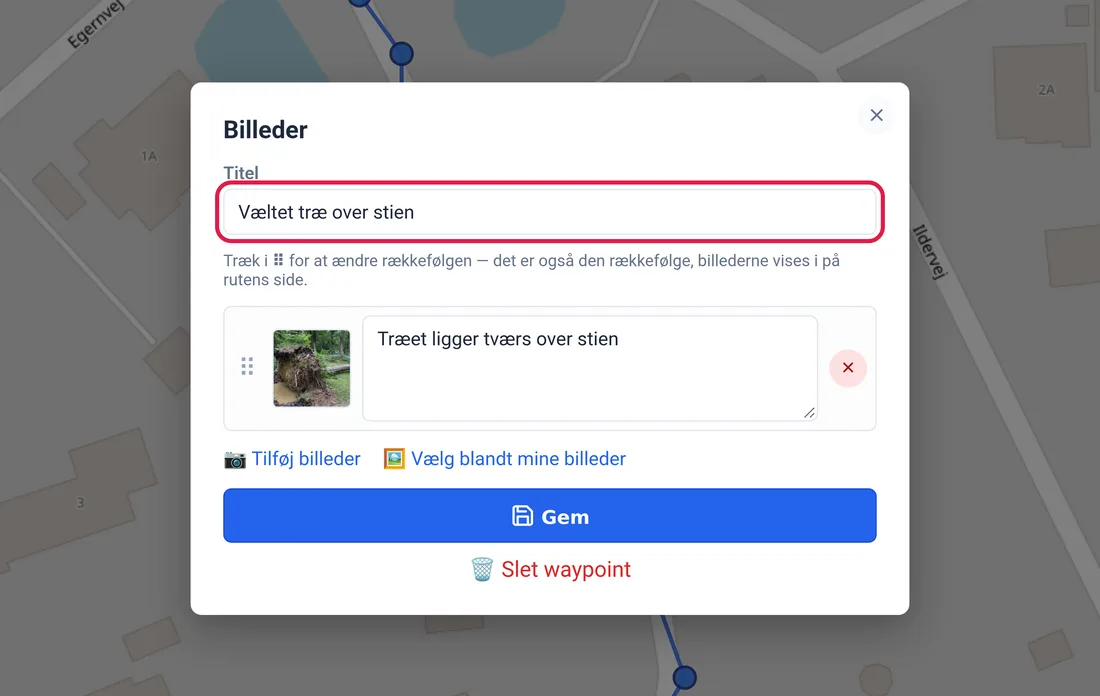
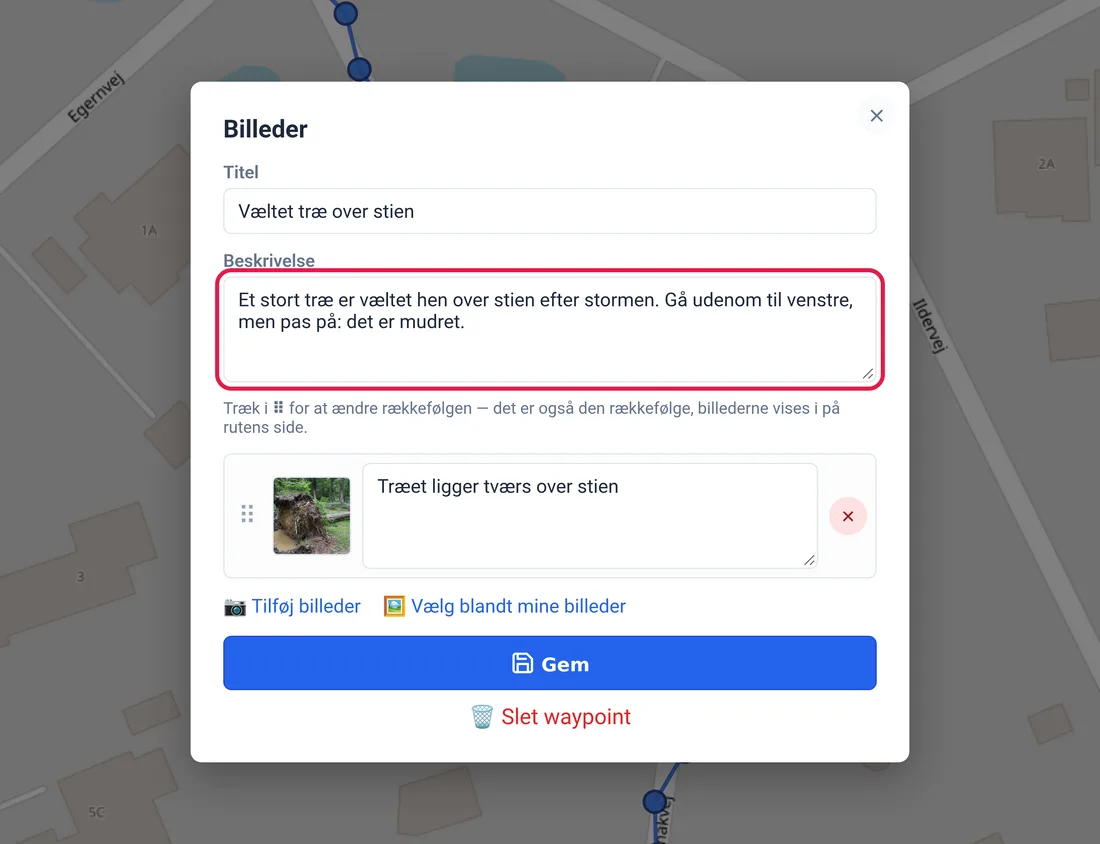
Vejledning: beskrivelsen kan rettes i editoren, og billeder får ændringstid som ?v=

diff --git a/app/vejledning.php b/app/vejledning.php
@@ -210,10 +210,12 @@ function vj_overskrift(string $slug): string
 function vj_billede(string $fil, string $alt, string $tekst = '', string $type = 'mobil'): string
 {
     // Bredde og højde reserverer pladsen, før billedet er hentet (loading="lazy").
-    $maal = @getimagesize(__DIR__ . '/../public/vejledning/billeder/' . $fil);
+    // ?v= er filens ændringstid, så et nyt skærmbillede altid hentes.
+    $sti = __DIR__ . '/../public/vejledning/billeder/' . $fil;
+    $maal = @getimagesize($sti);
     $str = $maal ? ' width="' . (int) $maal[0] . '" height="' . (int) $maal[1] . '"' : '';
     $html = '<figure class="vj-billede vj-billede--' . vj_h($type) . '">'
-        . '<img src="/vejledning/billeder/' . vj_h($fil) . '?v=1" alt="' . vj_h($alt) . '"' . $str . ' loading="lazy">';
+        . '<img src="/vejledning/billeder/' . vj_h($fil) . '?v=' . (int) @filemtime($sti) . '" alt="' . vj_h($alt) . '"' . $str . ' loading="lazy">';
     if ($tekst !== '') {
         $html .= '<figcaption>' . $tekst . '</figcaption>';
     }

diff --git a/public/vejledning/farligt-sted.php b/public/vejledning/farligt-sted.php
@@ -103,7 +103,7 @@ echo vj_overskrift('farligt-sted');
     <?= vj_trin('Klik på prikken, og ret det, du vil', '
         <p>Dialogen <strong>Billeder</strong> åbner. Her kan du:</p>
         <ul>
-            <li>rette <strong>titlen</strong>,</li>
+            <li>rette <strong>titlen</strong> og <strong>beskrivelsen</strong> (den tekst, du skrev på turen),</li>
             <li>skrive en <strong>tekst til billedet</strong> i feltet ved siden af det,</li>
             <li>lægge flere billeder på med <strong>📷 Tilføj billeder</strong>,</li>
             <li>fjerne et billede med det røde <strong>✕</strong>.</li>
